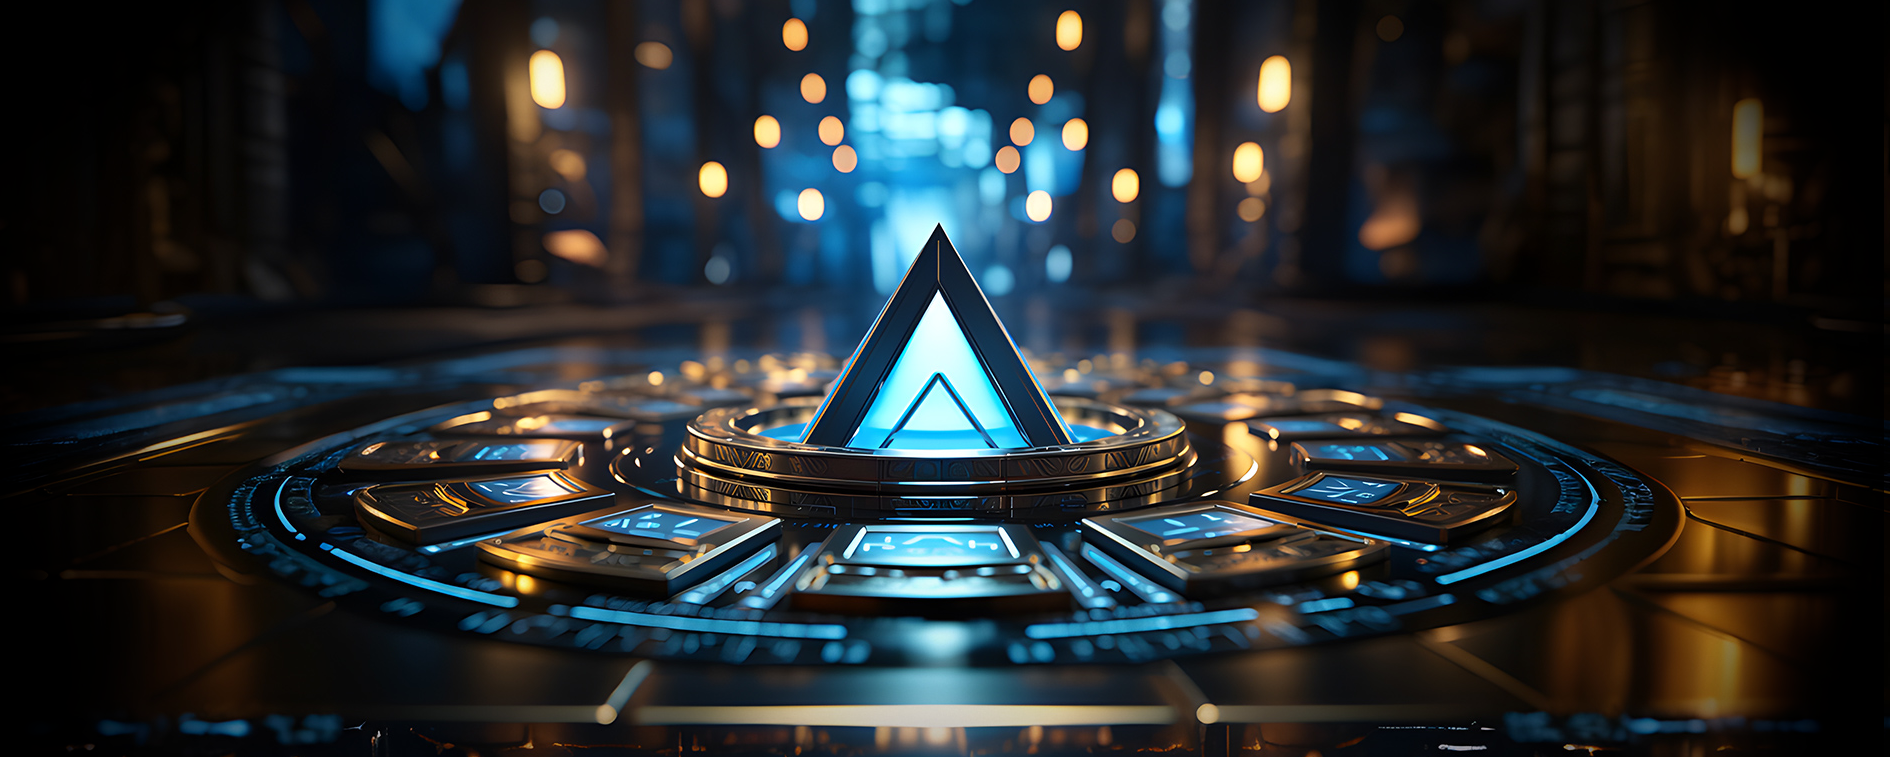
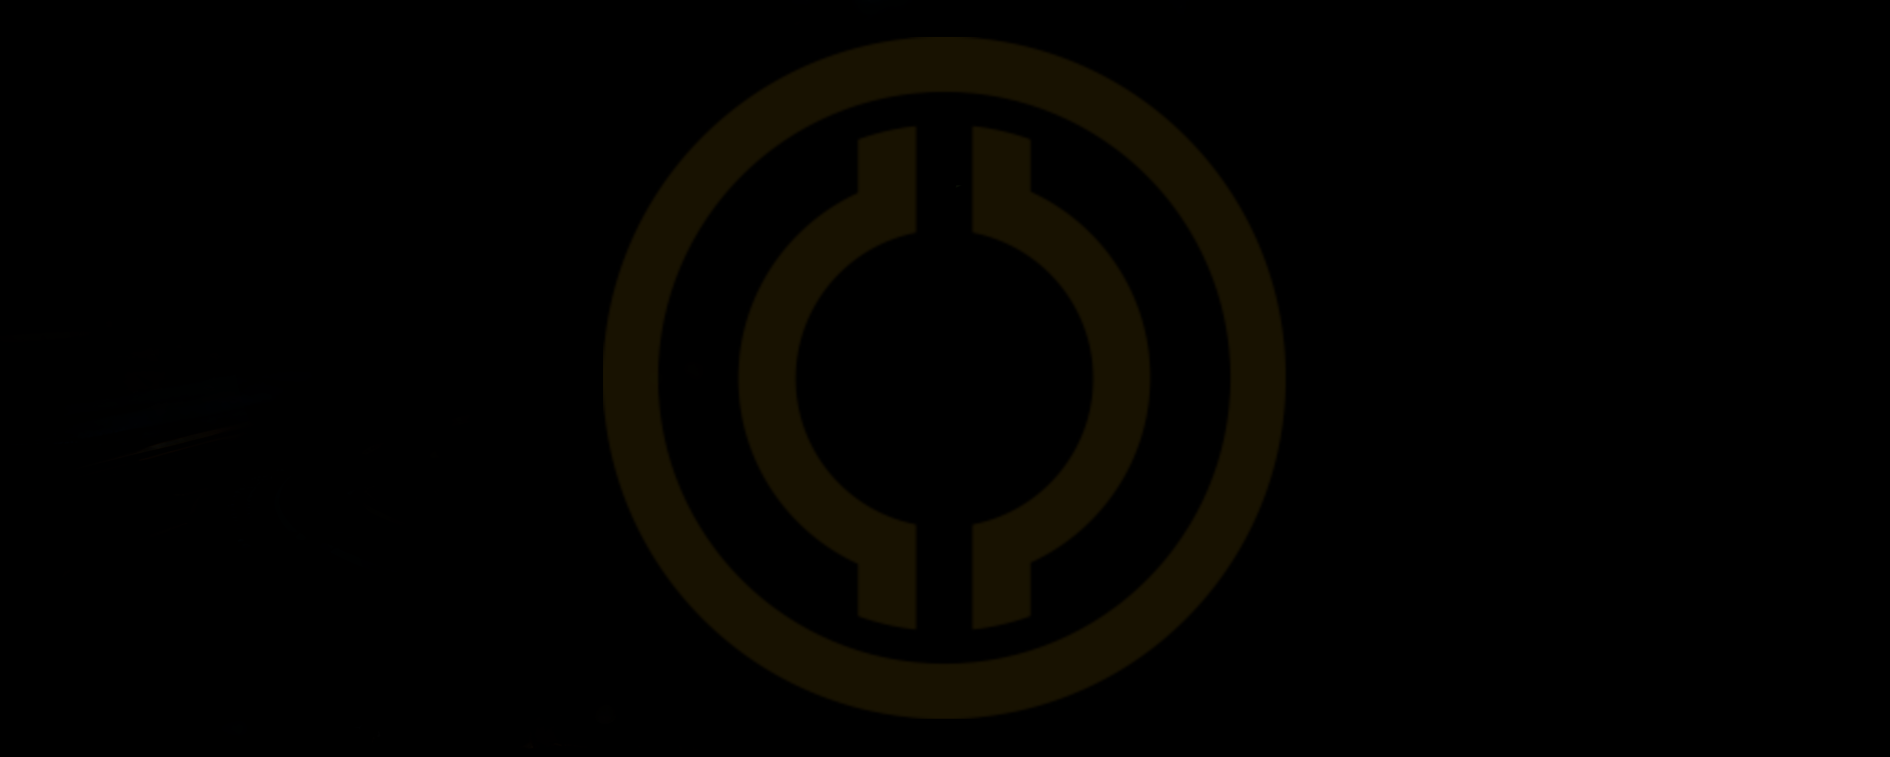
Image updates 2026

diff --git a/src/pages/home/home.css b/src/pages/home/home.css
@@ -3,7 +3,7 @@
     min-height: calc(100vh - 74px);
     
     /* FIX HERE: Change '../assets/img/' to '../../assets/img/' */
-    background: center no-repeat, url("../../assets/img/currentbg-v3.png") center / cover no-repeat;
+    background: color(srgb rgb(219, 219, 219) rgb(255, 255, 255) rgb(255, 255, 255)) no-repeat, center / cover no-repeat;
     
     width: 100%;
 }
@@ -86,7 +86,7 @@
 .home-gradient-card {
     height: 340px;
     border-radius: 40px;
-    background: linear-gradient(-135deg, var(--bs-black) 0%, rgba(255, 255, 255, 0.31) 30%);
+    background: linear-gradient(-135deg, var(--bs-black) 0%, rgba(29, 24, 24, 0.139) 30%);
 }
 
 .p-50-mt-50 {

diff --git a/src/pages/home/home.js b/src/pages/home/home.js
@@ -198,7 +198,7 @@ export const Home = () => {
                 <div className="row mr-0">
                     <div className="col" style={{ paddingRight: "50px", paddingLeft: "50px", marginTop: "50px" }}>
                         <div>
-                            <div className="card home-section-card">
+                            <div className="card home-card">
                                 <div className="card-body"></div>
                                 <div className="row">
                                     <div className="col-xl-12 home-price-div">